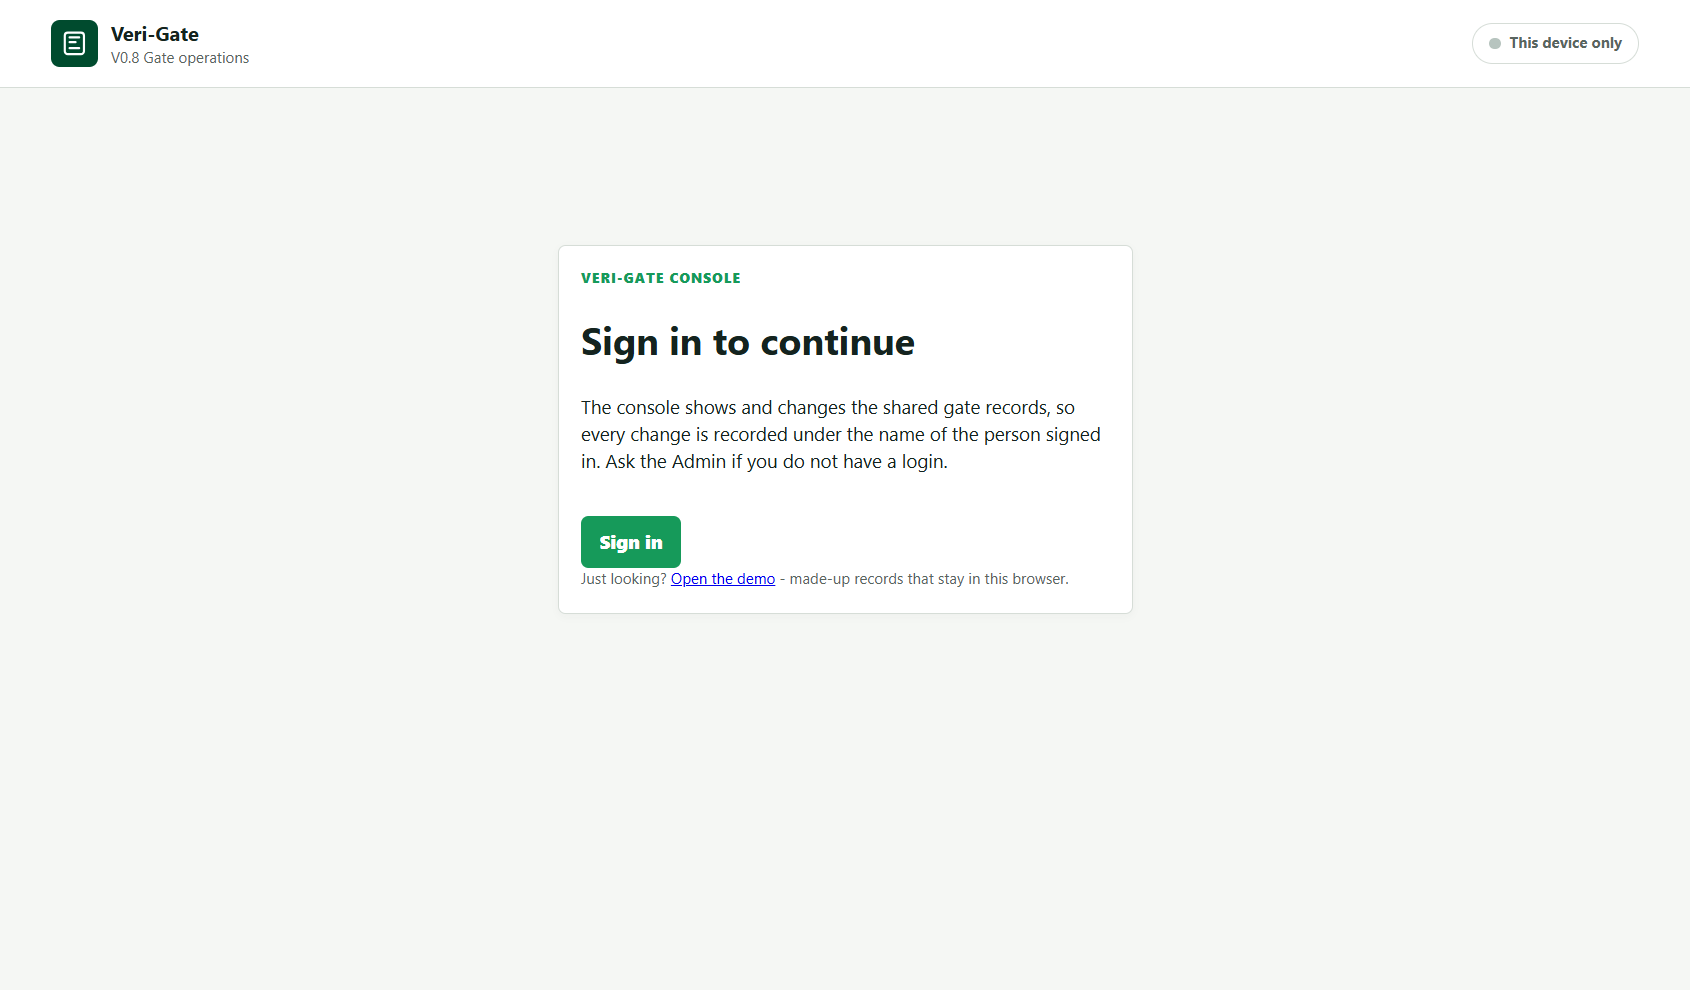
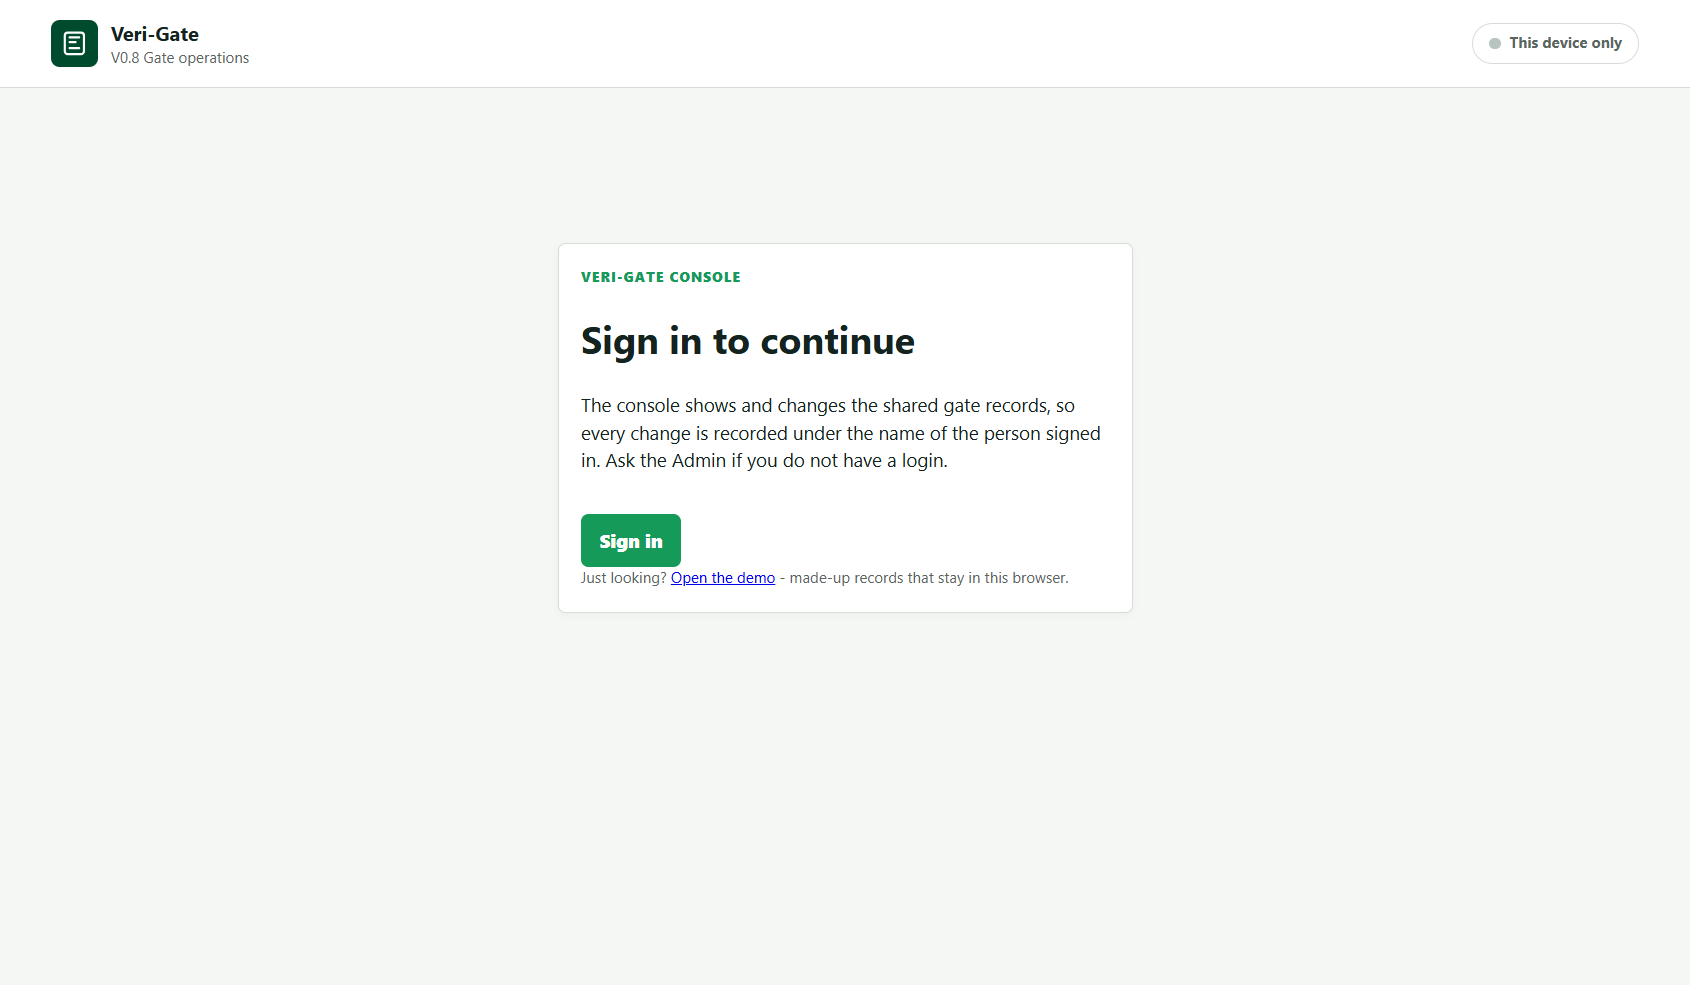
feat: eight of the eleven service frames, captured live
Captured signed in as raul against the real service: the locked console, the
console working as a named person, the logins and their roles, the vehicles
the gates created themselves, the roster, the override switches, the gate log
at 46 movements, and the log showing which gate recorded each movement and
which login sent it - 32 of them named on that page alone.

The scene that needed a movement on the gate phone timed out at 45 minutes,
and this time that cost nothing: the run carried on, captured what it could,
listed the two outstanding scenes with the command for each, and left Chrome
open and signed in. Last night the same timeout took the whole run and the
sign-in with it.

Two changes while running it. The script was picking whichever tab came back
first, so it asked for a sign-in in a window where one had already been given
- a console sign-in lives in the tab. It now prefers a tab that is already
signed in, and attaches to a browser already open on the profile rather than
starting a second one beside it. And scene 1, which is the console BEFORE
anyone signs in, is kept rather than overwritten when the tab it runs in is
signed in.

Outstanding: 03b-log-after and 08-caught-up. manifest.json records both as not
captured, so nothing downstream can quietly build around the gap.

diff --git a/tools/capture-service-frames.js b/tools/capture-service-frames.js
@@ -87,6 +87,60 @@ async function connectCdp(webSocketUrl) {
   };
 }
 
+const PORT_FROM = 9333;
+const PORT_TO = 9732;
+
+async function answers(port) {
+  try {
+    const response = await fetch(`http://127.0.0.1:${port}/json/version`, { signal: AbortSignal.timeout(1500) });
+    if (!response.ok) return false;
+    const body = await response.json();
+    return String(body.Browser || "").includes("Chrome");
+  } catch (error) {
+    return false;
+  }
+}
+
+// Find the browser that is already open on this profile, so a second run does not start another one
+// beside it with a fresh, signed-out tab. Chrome usually leaves the port in DevToolsActivePort; when
+// it has not, the range this script uses is swept instead, which takes about a second.
+async function runningDebugPort() {
+  const file = path.join(profileDir, "DevToolsActivePort");
+  if (fs.existsSync(file)) {
+    const port = Number(fs.readFileSync(file, "utf8").split(/\r?\n/)[0]);
+    if (Number.isInteger(port) && port > 0 && await answers(port)) return port;
+  }
+  const ports = [];
+  for (let port = PORT_FROM; port <= PORT_TO; port += 1) ports.push(port);
+  const found = await Promise.all(ports.map(async (port) => (await answers(port) ? port : null)));
+  return found.find((port) => port !== null) || null;
+}
+
+// A console sign-in lives in ONE tab. Picking whichever tab comes back first means asking somebody
+// to sign in again in a window where they already have - which is exactly what happened on the
+// first two runs. Prefer a tab that is already signed in.
+async function chooseTarget(pages) {
+  for (const page of pages) {
+    let cdp;
+    try {
+      cdp = await connectCdp(page.webSocketDebuggerUrl);
+      const signedIn = await evaluate(cdp, `(() => {
+        try { return Boolean(window.VeriGateCloud && window.VeriGateCloud.status().signedIn); }
+        catch (error) { return false; }
+      })()`);
+      if (signedIn) {
+        const who = await evaluate(cdp, "window.VeriGateCloud.status().username");
+        say(`  attaching to the tab already signed in as ${who}`);
+        return cdp;
+      }
+      cdp.close();
+    } catch (error) {
+      if (cdp) cdp.close();
+    }
+  }
+  return null;
+}
+
 async function waitForJson(url) {
   for (let attempt = 0; attempt < 120; attempt += 1) {
     try {
@@ -159,6 +213,16 @@ const readFromService = (cdp) => evaluate(cdp, 'ui.searchSource === "shared"');
 const scenes = {
   async 1(cdp) {
     say("\n== 1. Sign in to continue");
+    const already = await evaluate(cdp, `(() => {
+      try { return Boolean(window.VeriGateCloud && window.VeriGateCloud.status().signedIn); }
+      catch (error) { return false; }
+    })()`);
+    // This scene is the console BEFORE anyone signs in. Re-taking it from a signed-in tab would
+    // quietly replace it with the wrong picture, so it is kept rather than overwritten.
+    if (already && fs.existsSync(path.join(frameDir, "01-sign-in.png"))) {
+      say("  this tab is signed in; keeping the locked-console frame already captured");
+      return;
+    }
     await go(cdp, `${SITE}/index.html?shell=console`);
     await until(cdp, "document.body.classList.contains('console-locked')", "the sign-in panel", 60);
     await shot(cdp, "01-sign-in.png", "the console before anyone is signed in");
@@ -258,30 +322,46 @@ async function main() {
   fs.mkdirSync(frameDir, { recursive: true });
   fs.mkdirSync(profileDir, { recursive: true });
 
-  const debugPort = 9333 + Math.floor(Math.random() * 400);
   say(`Veri-Gate service capture`);
   say(`  site:    ${SITE}`);
   say(`  frames:  ${frameDir}`);
-  say(`  profile: ${profileDir}  (kept, so a sign-in survives between runs)`);
+  say(`  profile: ${profileDir}`);
 
-  const chrome = spawn(chromePath, [
-    `--user-data-dir=${profileDir}`,
-    `--remote-debugging-port=${debugPort}`,
-    "--remote-allow-origins=*",
-    "--no-first-run",
-    "--no-default-browser-check",
-    "--window-size=1366,900",
-    "about:blank"
-  ], { stdio: "ignore", detached: true });
-  // Chrome has to outlive this process. A console sign-in lives in the tab, so killing the browser
-  // when a scene times out would cost the sign-in as well as the run.
-  chrome.unref();
+  // Reuse the browser that is already open on this profile. Starting a second one beside it gives
+  // a fresh tab with no sign-in, and a console sign-in lives in the tab - which is how the first
+  // runs ended up asking for a sign-in that had already been given in the window next door.
+  const existing = await runningDebugPort();
+  let chrome = null;
+  let debugPort = existing;
+
+  if (existing && await answers(existing)) {
+    say(`  attaching to the Chrome already open (port ${existing})`);
+  } else {
+    debugPort = 9333 + Math.floor(Math.random() * 400);
+    say(`  starting Chrome (port ${debugPort})`);
+    chrome = spawn(chromePath, [
+      `--user-data-dir=${profileDir}`,
+      `--remote-debugging-port=${debugPort}`,
+      "--remote-allow-origins=*",
+      "--no-first-run",
+      "--no-default-browser-check",
+      "--window-size=1366,900",
+      "about:blank"
+    ], { stdio: "ignore", detached: true });
+    // Chrome has to outlive this process. A console sign-in lives in the tab, so killing the
+    // browser when a scene times out would cost the sign-in as well as the run.
+    chrome.unref();
+  }
 
   let cdp;
   try {
     const pages = await waitForJson(`http://127.0.0.1:${debugPort}/json/list`);
-    const page = pages.find((item) => item.type === "page");
-    cdp = await connectCdp(page.webSocketDebuggerUrl);
+    const openPages = pages.filter((item) => item.type === "page");
+    cdp = await chooseTarget(openPages);
+    if (!cdp) {
+      say("  no tab is signed in yet; using the first one");
+      cdp = await connectCdp(openPages[0].webSocketDebuggerUrl);
+    }
     await cdp.send("Page.enable");
     await cdp.send("Runtime.enable");
 
@@ -311,7 +391,7 @@ async function main() {
     say("\nThen: node tools/build-service-manifest.js");
   } finally {
     if (cdp) cdp.close();
-    if (process.argv.includes("--close")) {
+    if (process.argv.includes("--close") && chrome) {
       spawn("taskkill", ["/pid", String(chrome.pid), "/t", "/f"], { stdio: "ignore" });
     } else {
       say("\nChrome is left open and signed in, so a follow-up run costs you nothing.");
